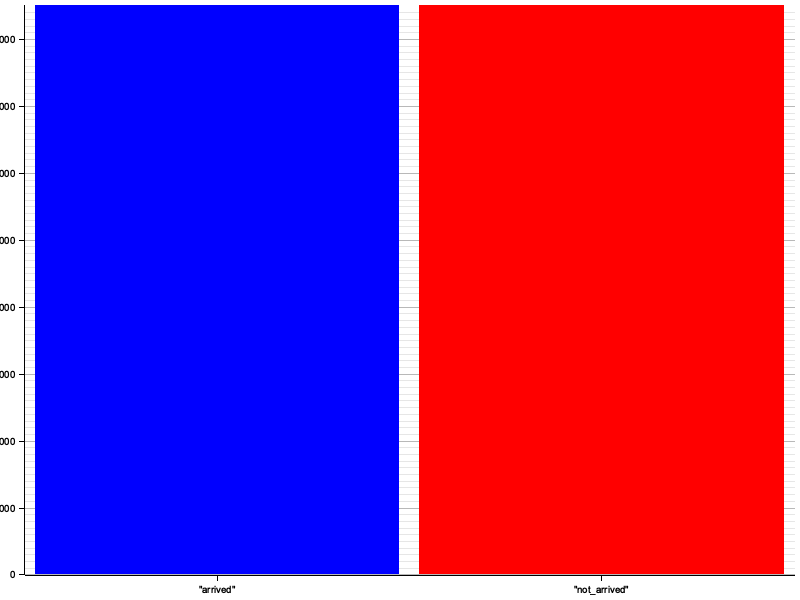
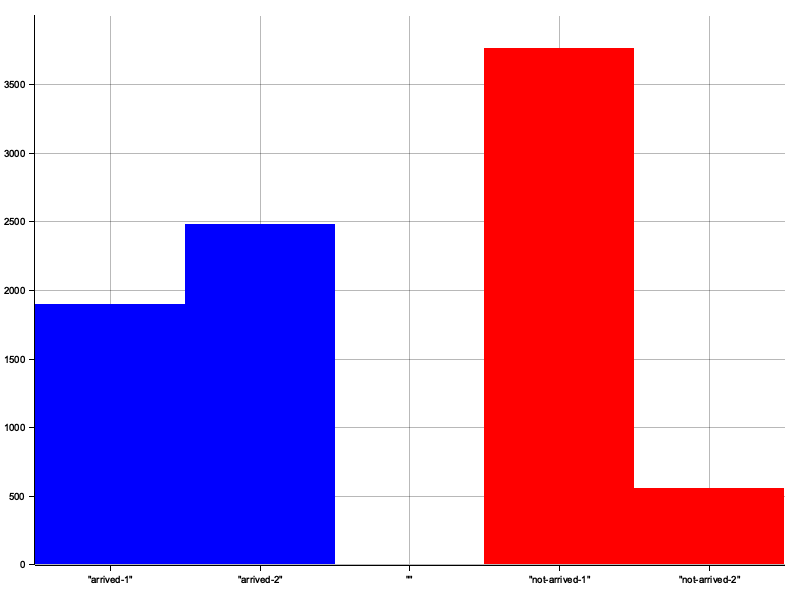
feat:space_ship

diff --git a/src/spaceship_titanic/spaceship_titanic.rs b/src/spaceship_titanic/spaceship_titanic.rs
@@ -16,9 +16,15 @@ Transported : target
 */
 use std::fs::File;
 use ndarray::prelude::*;
-use polars::{prelude::*, lazy::dsl::col, error::constants::TRUE};
+use polars::{prelude::*, lazy::dsl::{col, when}, error::constants::TRUE};
 use plotters::prelude::*;
+use smartcore::{decomposition::pca::{PCA,PCAParameters}, linalg::basic::arrays::Array, ensemble::random_forest_classifier::RandomForestClassifier};
+use smartcore::linalg::basic::matrix::DenseMatrix;
+use smartcore::model_selection::train_test_split;
+use smartcore::metrics::*;
 
+use smartcore::ensemble::{random_forest_classifier::RandomForestClassifierSearchParameters};
+use smartcore::tree::decision_tree_classifier::SplitCriterion;
 pub fn main(){
     /*===================data 불러오기========================= */
 
@@ -27,7 +33,9 @@ pub fn main(){
 
     let  test_df: DataFrame = CsvReader::from_path("./datasets/spaceship-titanic/test.csv").unwrap()
     .finish().unwrap();
-
+let result_df = CsvReader::from_path("./datasets/spaceship-titanic/sample_submission.csv")
+.unwrap()
+.finish().unwrap();
 
     println!("데이터 미리보기:{}",train_df.head(None));
     println!("데이터 정보 확인:{:?}",train_df.schema());
@@ -77,7 +85,7 @@ let train_df = train_df
         col("CryoSleep").cast(DataType::Float64).fill_null(0),
         col("VIP").cast(DataType::Float64).fill_null(0),
         col("Cabin").fill_null(lit("G/734/S")),
-        col("HomePlanet").fill_null(lit("Eath")),
+        col("HomePlanet").fill_null(lit("Earth")),
         col("Destination").fill_null(lit("TRAPPIST-1e")),
         col("ShoppingMall").fill_null(col("ShoppingMall").median()),
         col("VRDeck").fill_null(col("VRDeck").median()),
@@ -129,50 +137,267 @@ let  train_df= train_df.clone().lazy().with_columns(
    let cryosleep_result = train_df
    .group_by(&["CryoSleep"]).unwrap().select(["Transported"]).mean().unwrap();
 let sorted_means = cryosleep_result.sort(&["Transported_mean"], vec![false, true], false).unwrap();
-let arrived = train_df.clone().lazy().filter(col("Transported").eq(true)).collect().unwrap().column("CryoSleep").unwrap().value_counts(true,false).unwrap();
-println!("{}",arrived);
-let not_arrived = train_df.clone().lazy().filter(col("Transported").eq(false)).collect().unwrap().column("CryoSleep").unwrap().value_counts(true,false).unwrap();
-println!("{}",not_arrived);
+let cryosleep_arrived = train_df.clone().lazy().filter(col("Transported").eq(true)).collect().unwrap().column("CryoSleep").unwrap().value_counts(true,false).unwrap();
+let cryosleep_not_arrived = train_df.clone().lazy().filter(col("Transported").eq(false)).collect().unwrap().column("CryoSleep").unwrap().value_counts(true,false).unwrap();
+let cryosleep_arrived_vec:Vec<u32>= cryosleep_arrived.column("counts").unwrap().u32().unwrap().into_no_null_iter().collect();
+let cryosleep_not_arrived_vec:Vec<u32>= cryosleep_not_arrived.column("counts").unwrap().u32().unwrap().into_no_null_iter().collect();
+
+let data1: [(&str, u32); 2]= [
+    ("arrived-1",cryosleep_arrived_vec[1]),
+    ("arrived-2",cryosleep_arrived_vec[0])
+];
+let data2: [(&str, u32); 2]= [
+    ("not-arrived-1",cryosleep_not_arrived_vec[0]),
+    ("not-arrived-2",cryosleep_not_arrived_vec[1])
+];
+let root = BitMapBackend::new("./src/spaceship_titanic/CryoSleep.png", (800, 600)).into_drawing_area();
+root.fill(&WHITE).unwrap();
+  let mut chart_builder = ChartBuilder::on(&root);
+  chart_builder.margin(15).set_left_and_bottom_label_area_size(20);
+  let mut chart_context = chart_builder.build_cartesian_2d(["arrived-1","arrived-2","","not-arrived-1","not-arrived-2"].into_segmented(), (0u32..4000u32).step(500u32)).unwrap();
+  chart_context.configure_mesh().draw().unwrap();
+
+  chart_context.draw_series(Histogram::vertical(&chart_context).style(BLUE.filled()).margin(0)
+  .data(data1.iter().map(|v | (&v.0 ,v.1)))
+ ).unwrap();
+
+ chart_context.draw_series(Histogram::vertical(&chart_context).style(RED.filled()).margin(0)
+  .data(data2.iter().map(|v | (&v.0 ,v.1)))
+ ).unwrap();
 
 
-// let  train_df= train_df.clone().lazy().with_columns(
-//     [col("Cabin").str().split(lit("/")).list().get(lit(0)).alias("Cabin_1"),
-//            col("Cabin").str().split(lit("/")).list().get(lit(1)).alias("Cabin_2").cast(DataType::Float64),
-//             col("Cabin").str().split(lit("/")).list().get(lit(2)).alias("Cabin_3"),
-//             col("VIP").cast(DataType::Int64),
-//             col("CryoSleep").cast(DataType::Int64)
+/*HomePlanet */
+let homeplanet_result = train_df
+.group_by(&["HomePlanet"]).unwrap().select(["Transported"]).mean().unwrap().sort(&["Transported_mean"], vec![false, true], false).unwrap();
+println!("{}",homeplanet_result);
+
+let homeplanet_arrived = train_df.clone().lazy().filter(col("Transported").eq(true)).collect().unwrap().column("HomePlanet").unwrap().value_counts(true,false).unwrap();
+let homeplanet_not_arrived = train_df.clone().lazy().filter(col("Transported").eq(false)).collect().unwrap().column("HomePlanet").unwrap().value_counts(true,false).unwrap();
+let homeplanet_arrived_vec:Vec<u32>= homeplanet_arrived.column("counts").unwrap().u32().unwrap().into_no_null_iter().collect();
+let homeplanet_not_arrived_vec:Vec<u32>= homeplanet_not_arrived.column("counts").unwrap().u32().unwrap().into_no_null_iter().collect();
+
+
+/* Destination*/
+let destination_result = train_df
+.group_by(&["Destination"]).unwrap().select(["Transported"]).mean().unwrap().sort(&["Transported_mean"], vec![false, true], false).unwrap();
+println!("{}",destination_result);
+
+let destination_arrived = train_df.clone().lazy().filter(col("Transported").eq(true)).collect().unwrap().column("Destination").unwrap().value_counts(true,false).unwrap();
+let destination_not_arrived = train_df.clone().lazy().filter(col("Transported").eq(false)).collect().unwrap().column("Destination").unwrap().value_counts(true,false).unwrap();
+let destination_arrived_vec:Vec<u32>= destination_arrived.column("counts").unwrap().u32().unwrap().into_no_null_iter().collect();
+let destination_not_arrived_vec:Vec<u32>= destination_not_arrived.column("counts").unwrap().u32().unwrap().into_no_null_iter().collect();
+println!("{}",destination_result);
+
+
+
+/*Age */
+
+let train_df = train_df
+    .clone()
+    .lazy()
+    .with_columns([
+        when(col("Age").lt(lit(10.0))).then(lit(0f64)).
+        when(col("Age").lt(lit(20.0))).then(lit(10f64)).
+        when(col("Age").lt(lit(30.0))).then(lit(20f64)).
+        when(col("Age").lt(lit(40.0))).then(lit(30f64)).
+        when(col("Age").lt(lit(50.0))).then(lit(40f64)).
+        when(col("Age").lt(lit(60.0))).then(lit(50f64)).
+        when(col("Age").lt(lit(70.0))).then(lit(60f64)).
+        when(col("Age").lt(lit(80.0))).then(lit(70f64)).
+        otherwise(19.9).alias("Age")
+    ])
+    .collect().unwrap();   
+println!("{}",train_df); 
+println!("{}",train_df.column("Age").unwrap());
+
+let age_arrived = train_df.clone().lazy().filter(col("Transported").eq(true)).collect().unwrap().column("Age").unwrap().value_counts(true,false).unwrap();
+let age_not_arrived = train_df.clone().lazy().filter(col("Transported").eq(false)).collect().unwrap().column("Age").unwrap().value_counts(true,false).unwrap();
+let age_arrived_vec:Vec<u32>= age_arrived.column("counts").unwrap().u32().unwrap().into_no_null_iter().collect();
+let age_not_arrived_vec:Vec<u32>= age_not_arrived.column("counts").unwrap().u32().unwrap().into_no_null_iter().collect();
+println!("{}",age_arrived); 
+println!("{}",age_not_arrived);
+
+/*Cabin1 */
+let cabin_1_arrived = train_df.clone().lazy().filter(col("Transported").eq(true)).collect().unwrap().column("Cabin_1").unwrap().value_counts(true,false).unwrap();
+let cabin_1_not_arrived = train_df.clone().lazy().filter(col("Transported").eq(false)).collect().unwrap().column("Cabin_1").unwrap().value_counts(true,false).unwrap();
+let cabin_1_arrived_vec:Vec<u32>= cabin_1_arrived.column("counts").unwrap().u32().unwrap().into_no_null_iter().collect();
+let cabin_1_not_arrived_vec:Vec<u32>= cabin_1_not_arrived.column("counts").unwrap().u32().unwrap().into_no_null_iter().collect();
+println!("{}",cabin_1_arrived); 
+println!("{}",cabin_1_not_arrived);
+/*Cabin3 */
+let cabin_3_arrived = train_df.clone().lazy().filter(col("Transported").eq(true)).collect().unwrap().column("Cabin_3").unwrap().value_counts(true,false).unwrap();
+let cabin_3_not_arrived = train_df.clone().lazy().filter(col("Transported").eq(false)).collect().unwrap().column("Cabin_3").unwrap().value_counts(true,false).unwrap();
+let cabin_3_arrived_vec:Vec<u32>= cabin_3_arrived.column("counts").unwrap().u32().unwrap().into_no_null_iter().collect();
+let cabin_3_not_arrived_vec:Vec<u32>= cabin_3_not_arrived.column("counts").unwrap().u32().unwrap().into_no_null_iter().collect();
+println!("{}",cabin_3_arrived); 
+println!("{}",cabin_3_not_arrived);
+
+/*One_hot_ecnoding */
+let  input_data= train_df.drop_many(&["Transported"]);
+let cabin_1_data=  input_data.select(["Cabin_1"]).unwrap().to_dummies(None, false).unwrap();
+let cabin_3_data=  input_data.select(["Cabin_3"]).unwrap().to_dummies(None, false).unwrap();
+let destination_data=  input_data.select(["Destination"]).unwrap().to_dummies(None, false).unwrap();
+let homeplanet_data=  input_data.select(["HomePlanet"]).unwrap().to_dummies(None, false).unwrap();
+
+println!("{}",input_data);
+println!("{}",cabin_1_data);
+println!("{}",cabin_3_data);
+println!("{}",destination_data);
+println!("{}",homeplanet_data);
+let input_data= input_data.hstack(cabin_1_data.get_columns()).unwrap();
+let input_data= input_data.hstack(cabin_3_data.get_columns()).unwrap();
+let input_data= input_data.hstack(destination_data.get_columns()).unwrap();
+let input_data= input_data.hstack(homeplanet_data.get_columns()).unwrap();
+
+println!("{}",input_data);
+
+/*===================processing========================= */
+
+/*==========result_data================ */
+let result_df = result_df
+    .clone()
+    .lazy()
+    .with_columns([
+      col("Transported").cast(DataType::Float64)
+    ])
+    .collect().unwrap();
+let result_id_df: &Series= result_df.column(&"PassengerId").unwrap();
+
+let result_df: &Series= result_df.column(&"Transported").unwrap();
+
+let result_train: Vec<f64> = result_df.f64().unwrap().into_no_null_iter().collect();
+let result_train:Vec<i32>= result_train.iter().map(|x|*x as i32).collect();
+
+/*==========result_data================ */
+/*===================model========================= */
+let train_df = train_df
+    .clone()
+    .lazy()
+    .with_columns([
+      col("Transported").cast(DataType::Float64)
+    ])
+    .collect().unwrap();
+
+    println!("{}",train_df);
+
+let y_target :Vec<f64> = train_df.column("Transported").unwrap().f64().unwrap().into_no_null_iter().collect();
+let y_target :Vec<i32> = y_target.into_iter().map(|x|x as i32).collect();
+
+let x_data= input_data.drop_many(&["Cab_1_A", "Cab_1_G", "Cab_1_T", "Cab_1_D", "Cab_1_C", "VIP", "HomePlanet_Mars", "Destination_PSO J318.5-22","HomePlanet","Destination","Cabin_1","Cabin_3"]);
+println!("{}",x_data);
+println!("데이터 미리보기:{}",x_data.head(None));
+println!("데이터 정보 확인:{:?}",x_data.schema());
+
+println!("{}",x_data);
+let x_data= x_data.to_ndarray::<Float64Type>(IndexOrder::Fortran).unwrap();
+let mut x_train: Vec<Vec<_>> = Vec::new();
+for row in x_data.outer_iter() {
+    let row_vec: Vec<_> = row.iter().cloned().collect();
+    x_train.push(row_vec);
+}
+
+let x_data= DenseMatrix::from_2d_vec(&x_train);
+
+let pca: PCA<f64, DenseMatrix<f64>> = PCA::fit(&x_data, PCAParameters::default().with_n_components(10)).unwrap(); // Reduce number of features to 2
+
+let pca_train_data= pca.transform(&x_data).unwrap();
+
+// let (x_train, x_test, y_train, y_test) = train_test_split(&pca_train_data, &y_target, 0.2, true, None);
+/*===================test========================= */
+let test_df = test_df
+    .clone()
+    .lazy()
+    .with_columns([
+        col("CryoSleep").cast(DataType::Float64).fill_null(0),
+        col("VIP").cast(DataType::Float64).fill_null(0),
+        col("Cabin").fill_null(lit("G/734/S")),
+        col("HomePlanet").fill_null(lit("Earth")),
+        col("Destination").fill_null(lit("TRAPPIST-1e")),
+        col("ShoppingMall").fill_null(col("ShoppingMall").median()),
+        col("VRDeck").fill_null(col("VRDeck").median()),
+        col("FoodCourt").fill_null(col("FoodCourt").median()),
+        col("Spa").fill_null(col("Spa").median()),
+        col("RoomService").fill_null(col("RoomService").median()),
+        col("Age").fill_null(col("Age").median()),
+    ])
+    .collect().unwrap();
+let  test_df= test_df.clone().lazy().with_columns(
+    [col("Cabin").str().split(lit("/")).list().get(lit(0)).alias("Cabin_1"),
+           col("Cabin").str().split(lit("/")).list().get(lit(1)).alias("Cabin_2").cast(DataType::Float64),
+            col("Cabin").str().split(lit("/")).list().get(lit(2)).alias("Cabin_3"),
+            col("VIP").cast(DataType::Int64),
+            col("CryoSleep").cast(DataType::Int64)
     
-//             ]
-//     ).collect().unwrap();
-//    let  cryosleep_result= cryosleep_result.clone().lazy().with_columns(
-//     [
-//             col("groups").list().len()
-//             ]
-//     ).collect().unwrap();
-
-//     let cryosleep_transported:Vec<u32>= cryosleep_result.column("groups").unwrap().u32().unwrap().into_no_null_iter().collect();
-
-//     println!("{}",cryosleep_result.column("groups").unwrap());
-//     let root = BitMapBackend::new("./src/spaceship_titanic/CryoSleep.png", (800, 600)).into_drawing_area();
-//     root.fill(&WHITE).unwrap();
-// println!("{}",cryosleep_transported[0]);
-//   let mut chart_builder = ChartBuilder::on(&root);
-//   chart_builder.margin(5).set_left_and_bottom_label_area_size(20);
-//   let mut chart_context = chart_builder.build_cartesian_2d(["arrived","not_arrived"].into_segmented(), (0u32..8500u32).step(100u32)).unwrap();
-//   chart_context.configure_mesh().draw().unwrap();
-//   chart_context.draw_series(Histogram::vertical(&chart_context).style(BLUE.filled()).margin(10)
-//   .data((0..cryosleep_transported[1]).step(500).values().map(|v | (&"arrived" ,v )))
-//  ).unwrap();
-//  chart_context.draw_series(Histogram::vertical(&chart_context).style(RED.filled()).margin(10)
-//  .data((0..cryosleep_transported[0]).step(1).values().map(|v | (&"not_arrived" ,v )))
-// ).unwrap();
+            ]
+    ).collect().unwrap();
+let test_df= test_df.drop_many(&["PassengerId","Name","Cabin"]);
+let  test_df= test_df.clone().lazy().with_columns(
+    [col("VIP").cast(DataType::Int64),
+           col("CryoSleep").cast(DataType::Int64),
+            ]
+    ).collect().unwrap();
 
 
+let  input_data_test= test_df.drop_many(&["Transported"]);
+let cabin_1_data_test=  input_data_test.select(["Cabin_1"]).unwrap().to_dummies(None, false).unwrap();
+let cabin_3_data_test=  input_data_test.select(["Cabin_3"]).unwrap().to_dummies(None, false).unwrap();
+let destination_data_test=  input_data_test.select(["Destination"]).unwrap().to_dummies(None, false).unwrap();
+let homeplanet_data_test=  input_data_test.select(["HomePlanet"]).unwrap().to_dummies(None, false).unwrap();
 
-//  /* */
-//  println!("{}",train_df.column("HomePlanet").unwrap());
 
-    /*===================processing========================= */
+let input_data_test= input_data_test.hstack(cabin_1_data_test.get_columns()).unwrap();
+let input_data_test= input_data_test.hstack(cabin_3_data_test.get_columns()).unwrap();
+let input_data_test= input_data_test.hstack(destination_data_test.get_columns()).unwrap();
+let input_data_test= input_data_test.hstack(homeplanet_data_test.get_columns()).unwrap();
+
+println!("{}",input_data_test);
+let test_data= input_data_test.drop_many(&["Cab_1_A", "Cab_1_G", "Cab_1_T", "Cab_1_D", "Cab_1_C", "VIP", "HomePlanet_Mars", "Destination_PSO J318.5-22","HomePlanet","Destination","Cabin_1","Cabin_3"]);
+
+let test_data= test_data.to_ndarray::<Float64Type>(IndexOrder::Fortran).unwrap();
+let mut test_train: Vec<Vec<_>> = Vec::new();
+for row in test_data.outer_iter() {
+    let row_vec: Vec<_> = row.iter().cloned().collect();
+    test_train.push(row_vec);
+}
+
+let test_data= DenseMatrix::from_2d_vec(&test_train);
+
+let pca_test: PCA<f64, DenseMatrix<f64>> = PCA::fit(&test_data, PCAParameters::default().with_n_components(10)).unwrap(); // Reduce number of features to 2
+let pca_test_data= pca_test.transform(&test_data).unwrap();
+
+
+/*===================test========================= */
+
+
+
+let pca_model = RandomForestClassifier::fit(&pca_train_data, &y_target, Default::default()).unwrap();
+let y_hat: Vec<i32> = pca_model.predict(&pca_test_data).unwrap(); // use the same data for prediction
+let acc: f64 = ClassificationMetricsOrd::accuracy().get_score(&result_train,&y_hat);
+
+
+/*===================model========================= */
+/*===================제출용 파일========================= */
+
+// //random forest 가 가장 빠르기 때문에
+
+let survived_series = Series::new("Transported", y_hat.into_iter().collect::<Vec<i32>>()).cast(&DataType::Boolean).unwrap();
+let passenger_id_series =result_id_df.clone();
+
+let mut df: DataFrame = DataFrame::new(vec![passenger_id_series, survived_series]).unwrap();
+
+let mut df= df.clone().lazy().with_columns([
+    col("Transported").cast(DataType::Utf8)
+]).collect().unwrap();
+
+let mut df= df.clone().lazy().with_columns([
+    when(col("Transported").eq(lit("true"))).then(lit("True")).otherwise(lit("False")).alias("Transported")
+]).collect().unwrap();
+let mut output_file: File = File::create("./datasets/spaceship-titanic/out.csv").unwrap();
+
+CsvWriter::new(&mut output_file)
+    // .has_header(true)
+    .finish(&mut df)
+    .unwrap();
 
 
 /*===================result========================= */

diff --git a/src/titanic/titanic.rs b/src/titanic/titanic.rs
@@ -1,5 +1,6 @@
 
 use ndarray::prelude::*;
+use polars::lazy::dsl::col;
 use polars::prelude::*;
 
 use std::fs::File;
